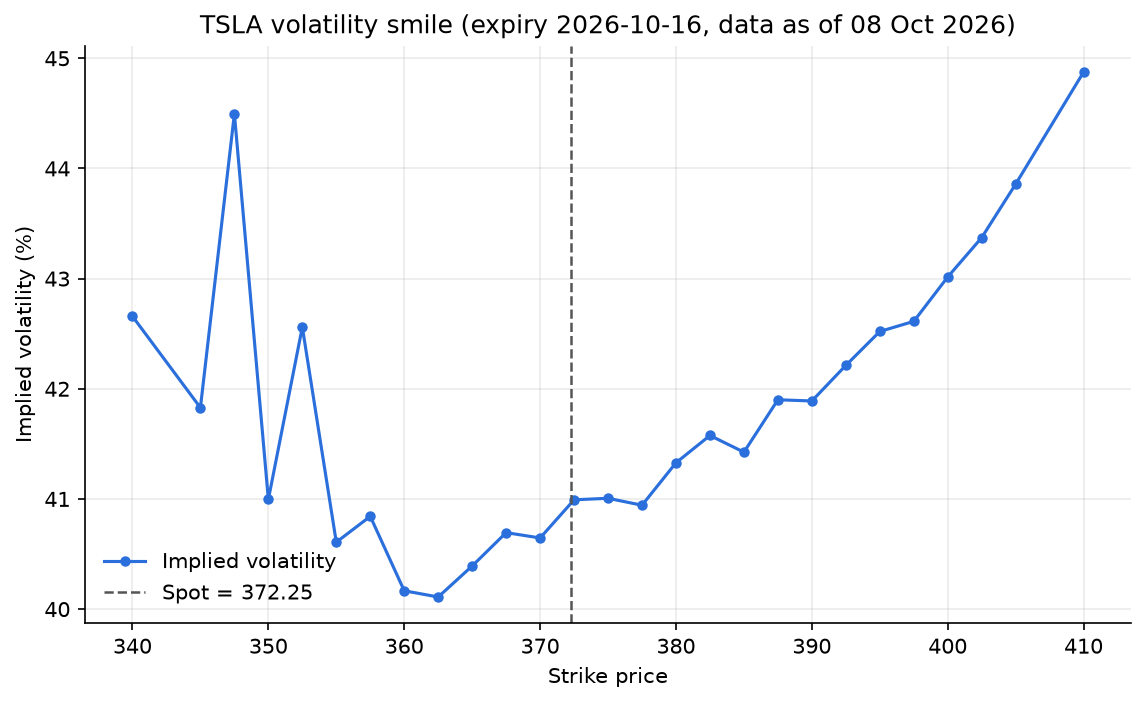
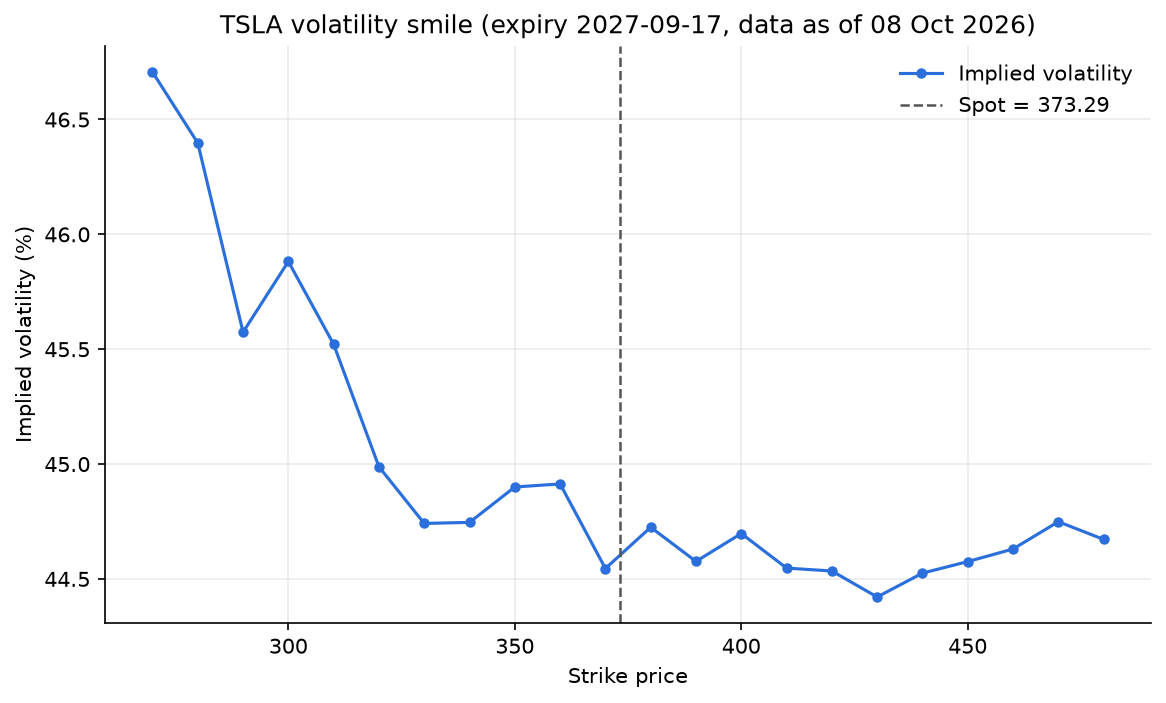
Use one-year expiry and corrected risk-free rate for TSLA example

diff --git a/src/market_demo.py b/src/market_demo.py
@@ -1,0 +1,28 @@
+from black_scholes import black_scholes_call, black_scholes_put
+from monte_carlo import monte_carlo_call_price, monte_carlo_put_price
+from binomial_tree import binomial_tree_price
+from volatility_smile import (get_option_chain, time_to_expiry, calculate_implied_vols, atm_implied_vol, RISK_FREE_RATE)
+
+
+def run_market_demo(ticker="TSLA", num_sims=500_000, tree_steps=1000):
+    """Price the at-the-money option three ways, using the market's own implied vol."""
+    r = RISK_FREE_RATE
+    calls, S, expiry = get_option_chain(ticker)
+    T = time_to_expiry(expiry)
+    iv_table = calculate_implied_vols(calls, S, T, r)
+
+    K, sigma = atm_implied_vol(iv_table, S)
+    market_price = iv_table.loc[iv_table["strike"] == K, "mid_price"].iloc[0]
+
+    print(f"{ticker}  S={S:.2f}  K={K:.2f}  T={T:.3f}  r={r}  sigma(ATM implied)={sigma:.4f}")
+    print(f"Market mid price (call): {market_price:.2f}\n")
+
+    print(f"{'Method':<22}{'Call':>10}{'Put':>10}")
+    print(f"{'Black-Scholes':<22}{black_scholes_call(S, K, T, r, sigma):>10.4f}{black_scholes_put(S, K, T, r, sigma):>10.4f}")
+    print(f"{'Binomial tree':<22}{binomial_tree_price(S, K, T, r, sigma, tree_steps, 'call'):>10.4f}{binomial_tree_price(S, K, T, r, sigma, tree_steps, 'put'):>10.4f}")
+    print(f"{'Monte Carlo':<22}{monte_carlo_call_price(S, K, T, r, sigma, num_sims):>10.4f}{monte_carlo_put_price(S, K, T, r, sigma, num_sims):>10.4f}")
+    print(f"{'Binomial (American)':<22}{binomial_tree_price(S, K, T, r, sigma, tree_steps, 'call', True):>10.4f}{binomial_tree_price(S, K, T, r, sigma, tree_steps, 'put', True):>10.4f}")
+
+
+if __name__ == "__main__":
+    run_market_demo("TSLA")

diff --git a/src/volatility_smile.py b/src/volatility_smile.py
@@ -9,14 +9,18 @@ import matplotlib.pyplot as plt
 from implied_vol import implied_vol_call
 from monte_carlo import get_plots_dir
 
-RISK_FREE_RATE = 0.005
+RISK_FREE_RATE = 0.05
 
 
-def get_option_chain(ticker="AAPL", expiry_index=3):
-    """Download live call options for one expiry. Returns (calls, spot, expiry_date)."""
+def get_option_chain(ticker="AAPL", target_days=365):
+    """Download live call options for the expiry closest to target_days from today.
+    Returns (calls, spot, expiry_date)."""
     stock = yf.Ticker(ticker)
-    expiries = stock.options
-    expiry = expiries[min(expiry_index, len(expiries) - 1)]
+    today = datetime.now()
+    expiry = min(
+        stock.options,
+        key=lambda e: abs((datetime.strptime(e, "%Y-%m-%d") - today).days - target_days),
+    )
     calls = stock.option_chain(expiry).calls.copy()
     calls["mid_price"] = (calls["bid"] + calls["ask"]) / 2
     spot = float(stock.history(period="1d")["Close"].iloc[-1])
@@ -76,7 +80,7 @@ if __name__ == "__main__":
     ticker = "TSLA"   # change to "AAPL" etc.
     r = RISK_FREE_RATE
 
-    calls, S, expiry = get_option_chain(ticker)
+    calls, S, expiry = get_option_chain(ticker, target_days=365)
     T = time_to_expiry(expiry)
     iv_table = calculate_implied_vols(calls, S, T, r)
 
